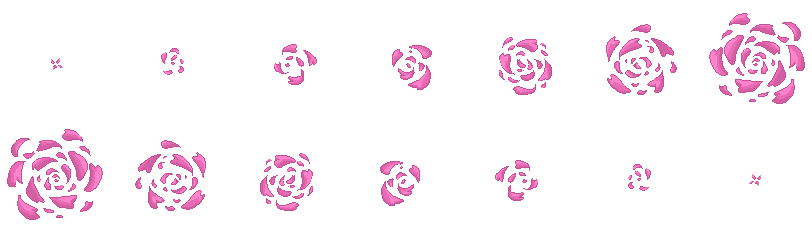
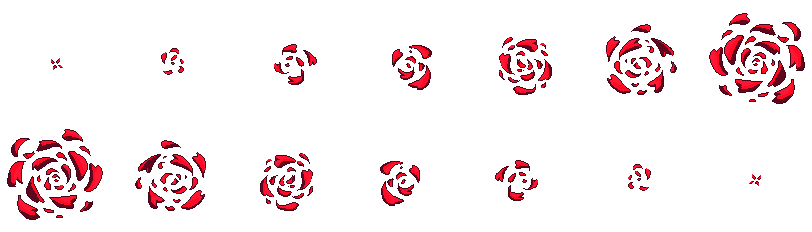
Animacion dependiente del tiempo general de la adversidfad

diff --git a/AnimalCooking/Resources.cpp b/AnimalCooking/Resources.cpp
@@ -607,7 +607,9 @@ vector<Resources::SpritesheetInfo> Resources::spritesheets_{
 	{Basic, Explosion, "../AnimalCooking/resources/images/Animaciones/Otro/humillo.png",1,7 },
 	{AllLevels, Ghost, "../AnimalCooking/resources/images/Animaciones/Otro/ghost.png",1,9 },
 	{ AllLevels, PidgeonAdversity, "../AnimalCooking/resources/images/Adversities/palomaSP.png",1,21 },
-	{AllLevels, Blizzard, "../AnimalCooking/resources/images/Adversities/ventisca.png", 1,6}
+	{AllLevels, Blizzard, "../AnimalCooking/resources/images/Adversities/ventisca.png", 1,6},
+	{AllLevels, FlowerAdversity, "../AnimalCooking/resources/images/Adversities/flores.png", 2,7}
+
 };
 
 vector<Resources::TextMsgInfo> Resources::messages_{

diff --git a/AnimalCooking/IngredientsDeathAdversity.h b/AnimalCooking/IngredientsDeathAdversity.h
@@ -25,6 +25,10 @@ private:
 	struct Ingredientinfo {
 		Ingredient* ing=nullptr;
 		Timer* animationTimer;
+		int row;
+		int col;
+		bool dead;
+		Vector2D pos;
 	};
 
 	void killIngredients();
@@ -32,15 +36,15 @@ private:
 	void inspectIngredients();
 	void getPosIngredient(int i);
 	int getNumber();
+	bool allCompleted();
 	bool alreadyTaken(int i);
-	Texture* preparationTexture;
 	Texture* deathTexture;
 	Timer* deathTimer;
 	SDL_Rect dest;
 	SDL_Rect src;
-	double timeToDeath;
 	double timePostDeath;
 	double numKills;
+	double animationSpeed;
 	int killsDone;
 	double percentagePerKill;
 	vector<Ingredientinfo> ingInfo;

diff --git a/AnimalCooking/Resources.h b/AnimalCooking/Resources.h
@@ -627,7 +627,8 @@ public:
 		RainAdversity,
 		HookAdversity,
 		PidgeonAdversity,
-		Blizzard
+		Blizzard,
+		FlowerAdversity
 
 	};
 
